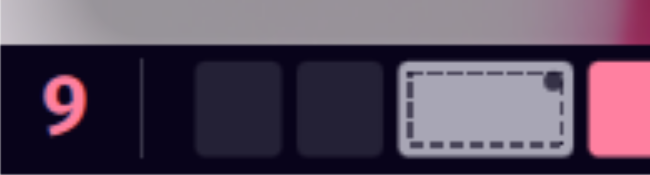
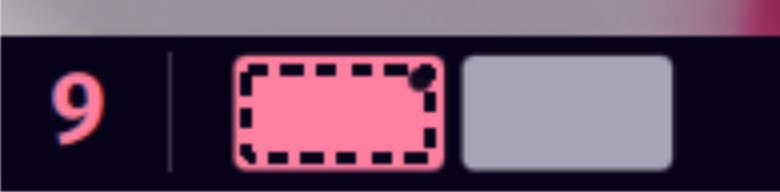
Make the floating-window outline easier to see
Thicker stroke (1.8), longer dashes, full opacity and a tighter inset; refresh
the markers screenshot (dashed outline plus the pinned dot).

diff --git a/StateMarks.qml b/StateMarks.qml
@@ -17,25 +17,26 @@ Item {
   anchors.fill: parent
   readonly property bool roomy: width >= 10 && height >= 10
   readonly property real m: 2                                  // margin from the edge
+  readonly property real fm: 2.2                               // inset of the floating outline's centre line
   readonly property real arm: Math.max(2, Math.min(4, Math.min(width, height) / 3))
 
-  // floating: dashed outline
+  // floating: dashed outline (dash lengths are in multiples of the stroke width)
   Shape {
     anchors.fill: parent
     visible: marks.roomy && marks.floating && !marks.fullscreen
-    opacity: 0.8
     ShapePath {
       strokeColor: marks.ink
-      strokeWidth: 1
+      strokeWidth: 1.8
       fillColor: "transparent"
       strokeStyle: ShapePath.DashLine
-      dashPattern: [2, 2]
-      startX: marks.m + 0.5
-      startY: marks.m + 0.5
-      PathLine { x: marks.width - marks.m - 0.5; y: marks.m + 0.5 }
-      PathLine { x: marks.width - marks.m - 0.5; y: marks.height - marks.m - 0.5 }
-      PathLine { x: marks.m + 0.5; y: marks.height - marks.m - 0.5 }
-      PathLine { x: marks.m + 0.5; y: marks.m + 0.5 }
+      dashPattern: [2, 1.2]
+      capStyle: ShapePath.FlatCap
+      startX: marks.fm
+      startY: marks.fm
+      PathLine { x: marks.width - marks.fm; y: marks.fm }
+      PathLine { x: marks.width - marks.fm; y: marks.height - marks.fm }
+      PathLine { x: marks.fm; y: marks.height - marks.fm }
+      PathLine { x: marks.fm; y: marks.fm }
     }
   }
 
